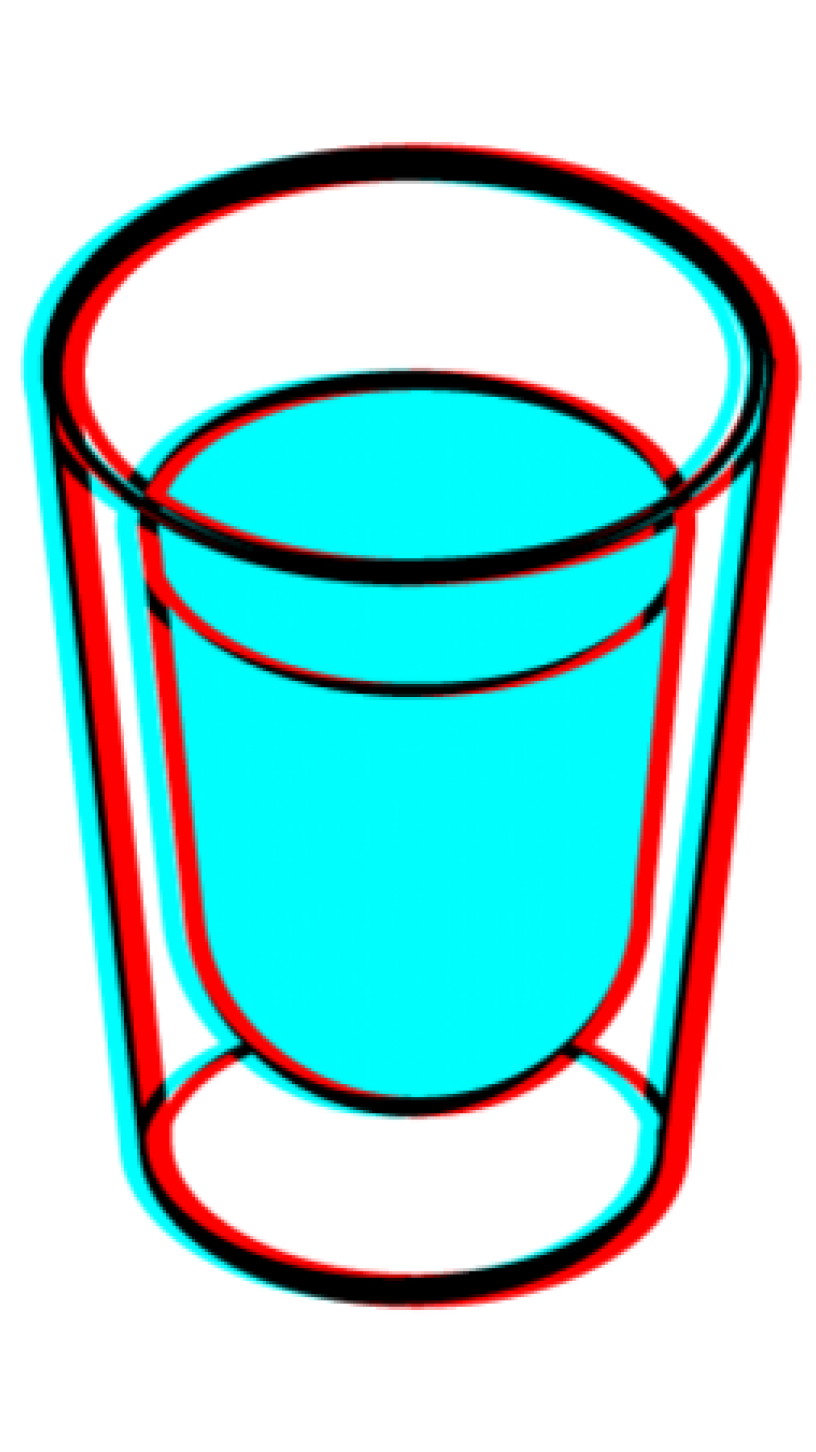
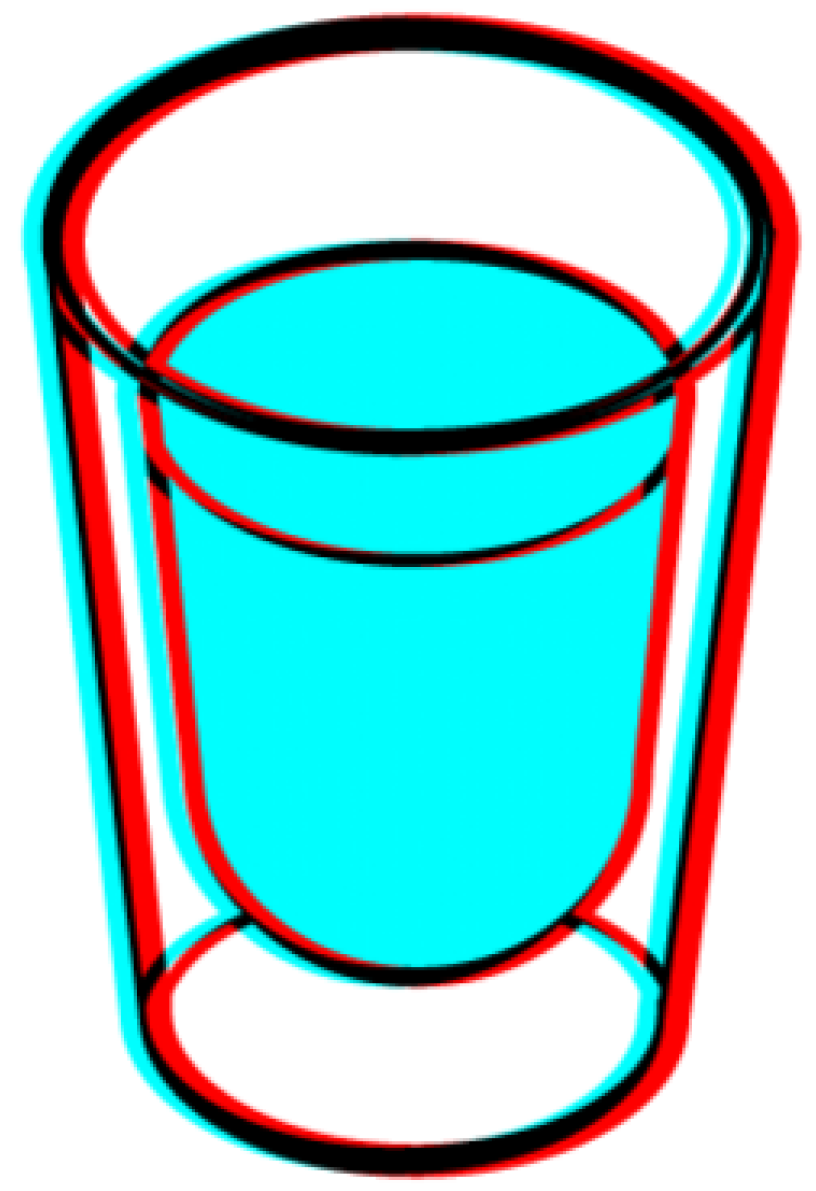
added JS

diff --git a/src/index.html b/src/index.html
@@ -17,13 +17,13 @@
         <h1>WodkApp</h1>
     </header>
     <main>
-        <article class="flex flex-col items-center max-w-96 gap-y-1 sm:gap-y-10 mt-6 sm:mt-0">
+        <article class="flex flex-col items-center max-w-96 gap-y-1 sm:gap-y-10 mt-6 mb-6 sm:mt-0">
             <header>
                 <h2 class="text-2xl sm:text-5xl text-center leading-normal">Ile 50tek już za Tobą?</h2>
             </header>
-            <section class="flex flex-col items-center justify-between flex-initial max-h-appContentHeight gap-y-10">
+            <section class="flex flex-col items-center justify-between flex-initial max-h-appContentHeight gap-y-4 sm:gap-y-10">
                 <div class="relative">
-                    <img class="w-1/2 max-w-80 m-auto" src="img/kieliszek.png"
+                    <img class="w-3/5 m-auto" src="img/kieliszek.png"
                         alt="grafika wektorowa przedstawiająca kieliszek do wódki">
                     <p class="text-7xl absolute w-full h-full top-1/2 left-0 flex justify-center img-counter">X</p>
                 </div>

diff --git a/scripts/main.js b/scripts/main.js
@@ -3,3 +3,23 @@ const removeButton = document.querySelector('.remove-button');
 const imgCounter = document.querySelector('.img-counter');
 const vodkaCounter = document.querySelector('.vodka-counter');
 const caloriesCounter = document.querySelector('.calories-counter');
+
+const updateCounter = () => {
+    imgCounter.innerHTML = localStorage.length;
+    vodkaCounter.innerHTML = localStorage.length;
+    caloriesCounter.innerHTML = (localStorage.length * 231);
+}
+
+addButton.addEventListener('click', () => {
+    const glassNumber = localStorage.length;
+    localStorage.setItem(`Glass nr ${glassNumber + 1}`, `${(glassNumber + 1)}`);
+    updateCounter();
+})
+
+removeButton.addEventListener('click', () => {
+    const glassNumber = localStorage.length;
+    localStorage.removeItem(`Glass nr ${glassNumber}`);
+    updateCounter();
+});
+
+updateCounter();
